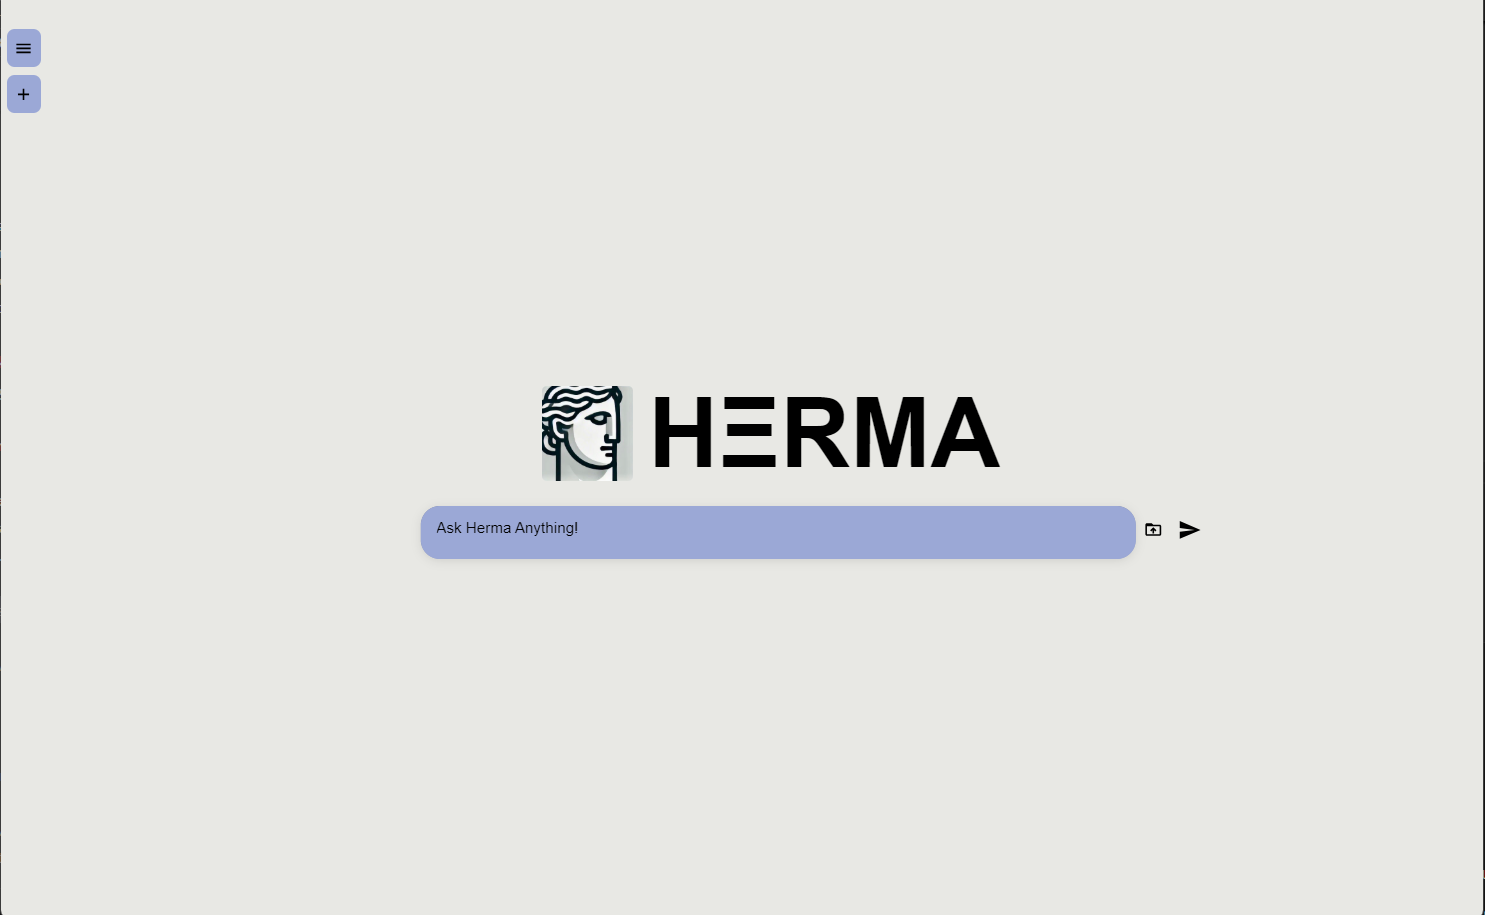
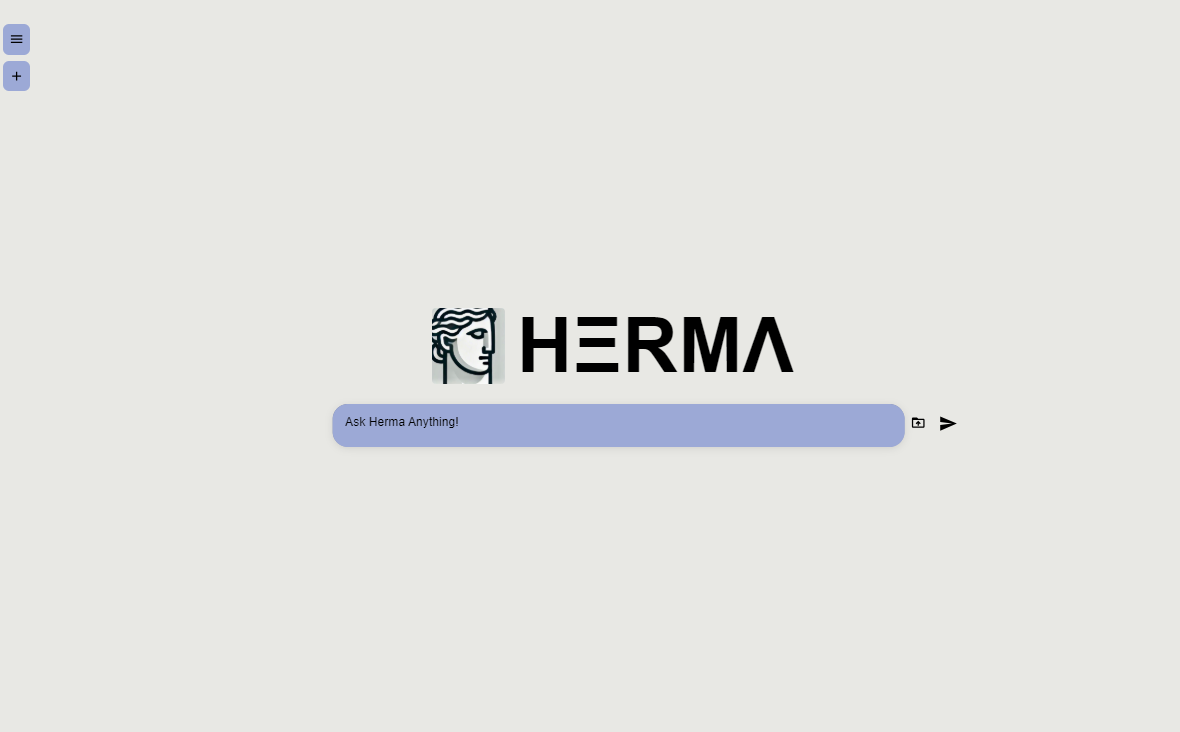
added tips section and made minor aesthetic changes

diff --git a/src/components/Hero.jsx b/src/components/Hero.jsx
@@ -8,10 +8,7 @@ import complexProblemImage from './complex-problem.png';
 
 const Hero = () => {
   const [requirementsOpen, setRequirementsOpen] = useState(false);
-
-  const toggleRequirements = () => {
-    setRequirementsOpen(!requirementsOpen);
-  };
+  const [tipsOpen, setTipsOpen] = useState(false);
 
   const scrollGallery = (direction) => {
     const track = document.getElementById('gallery-track');
@@ -92,12 +89,50 @@ const Hero = () => {
     // window.location.href = downloadUrls[platform];
   };
 
+  const toggleRequirements = () => {
+    setRequirementsOpen(!requirementsOpen);
+    
+    // Update spacer height when requirements are toggled
+    //updateSpacerHeight();
+  };
+  
+  const toggleTips = () => {
+    setTipsOpen(!tipsOpen);
+    
+    // Update spacer height when tips are toggled
+    //updateSpacerHeight();
+  };
+  
+  // Function to update the content spacer height
+  const updateSpacerHeight = () => {
+    const spacer = document.querySelector('.content-spacer');
+    const requirementsContent = document.querySelector('.requirements-content');
+    const tipsContent = document.querySelector('.tips-content');
+    
+    if (requirementsOpen || tipsOpen) {
+      spacer.style.display = 'block';
+      
+      // Determine the tallest content element
+      let height = 0;
+      if (requirementsOpen) {
+        height = Math.max(height, requirementsContent.scrollHeight + 40);
+      }
+      if (tipsOpen) {
+        height = Math.max(height, tipsContent.scrollHeight + 40);
+      }
+      
+      spacer.style.height = height + 'px';
+    } else {
+      spacer.style.display = 'none';
+    }
+  };
+
   return (
     <section className="hero">
       <div className="container hero-content">
-          <h1>The Future is Local</h1>
+          <h1>Privacy is Power</h1>
         <p>
-          Herma is your personal private AI assistant. Herma can analyze your documents, answer your questions, and solve your problems. All without leaving your device. 
+        A local alternative to cloud-based AI
         </p>
 
         <div className="cta-container" id="download">
@@ -116,9 +151,10 @@ const Hero = () => {
           </p>
         </div>
         
-        <div className={`system-requirements-container ${requirementsOpen ? 'requirements-open' : ''}`}>
+        <div className="dropdown-container">
+          <div className={`system-requirements-container ${requirementsOpen ? 'requirements-open' : ''}`}>
             <h3 className="requirements-title" onClick={toggleRequirements}>
-              System Suggestions <span className="requirements-hint">{requirementsOpen ? '▲' : '▼'}</span>
+              System Requirements <span className="requirements-hint">{requirementsOpen ? '▲' : '▼'}</span>
             </h3>
             <div className="requirements-content">
               <div className="requirements-grid">
@@ -143,8 +179,37 @@ const Hero = () => {
                 Herma uses Llama 3.2:1B technology to deliver AI capabilities directly on your device without sending your data to the cloud.
               </div>
             </div>
-        </div>
+          </div>
 
+          <div className={`tips-container ${tipsOpen ? 'tips-open' : ''}`}>
+            <h3 className="tips-title" onClick={toggleTips}>
+              Tips for Herma <span className="tips-hint">{tipsOpen ? '▲' : '▼'}</span>
+            </h3>
+            <div className="tips-content">
+              <div className="tips-grid">
+                <div className="tip-item">
+                  <h4>Be Specific</h4>
+                  <p>Clearly state your problem and provide necessary context for better responses.</p>
+                </div>
+                <div className="tip-item">
+                  <h4>Break Down Complex Tasks</h4>
+                  <p>Split complex requests into smaller, more manageable steps for better results.</p>
+                </div>
+                <div className="tip-item">
+                  <h4>Iterative Refinement</h4>
+                  <p>Follow up with clarifications to refine responses toward your needs.</p>
+                </div>
+                <div className="tip-item">
+                  <h4>Memory Overflow</h4>
+                  <p>Longer chats may decrease response accuracy.</p>
+                </div>
+              </div>
+              <div className="tips-note">
+                Herma's capabilities shine when your prompts are clear, specific, and provide the right context for your question.
+              </div>
+            </div>
+          </div>
+        </div>
         <div className="app-preview-container">
           <div className="app-gallery-wrapper">
             <div className="gallery-controls">

diff --git a/src/components/Hero.css b/src/components/Hero.css
@@ -101,14 +101,26 @@
 }
 
 /* Add these styles to your Hero.css file */
+.dropdown-container {
+  display: flex;
+  flex-direction: row;
+  justify-content: center;
+  align-items: flex-start;
+  gap: var(--margin-m);
+  margin-top: var(--margin-s);
+  width: 100%;
+}
 
-.system-requirements-container {
+.system-requirements-container,
+.tips-container {
   margin-top: var(--margin-l);
   text-align: center;
   position: relative;
+  width: 100%;
 }
 
-.requirements-title {
+.requirements-title,
+.tips-title {
   font-size: calc(var(--h4-size));
   color: var(--highlight-color);
   display: inline-block;
@@ -121,20 +133,23 @@
   z-index: 2;
 }
 
-.requirements-title:hover {
+.requirements-title:hover,
+.tips-title:hover {
   background-color: rgba(0, 0, 0, 0.05);
 }
 
-.requirements-hint {
+.requirements-hint,
+.tips-hint {
   margin-left: 5px;
   font-size: 0.7rem;
   transition: transform 0.3s ease;
 }
 
-.requirements-content {
+.requirements-content,
+.tips-content {
   max-height: 0;
   overflow: hidden;
-  transition: max-height 0.5s ease, opacity 0.3s ease, transform 0.3s ease;
+  transition: max-height 0.3s ease, opacity 0.15s ease, transform 0.15s ease;
   opacity: 0;
   transform: translateY(-10px);
   margin-top: 0;
@@ -153,32 +168,45 @@
   padding: var(--margin-m);
 }
 
-.requirements-grid {
+.tips-container.tips-open .tips-content {
+  max-height: 500px;
+  opacity: 1;
+  transform: translateY(0);
+  margin-top: var(--margin-s);
+  padding: var(--margin-m);
+}
+
+.requirements-grid,
+.tips-grid {
   display: grid;
   grid-template-columns: repeat(2, 1fr);
   gap: var(--margin-m);
 }
 
-.requirement-item {
+.requirement-item,
+.tip-item {
   padding: var(--margin-s);
   background-color: white;
   border-radius: var(--radius-md);
   box-shadow: var(--shadow-sm);
 }
 
-.requirement-item h4 {
-  font-size: calc(var(--h4-size) * 0.8);
+.requirement-item h4,
+.tip-item h4 {
+  font-size: calc(var(--h4-size) * 0.65);
   margin-bottom: 0.5rem;
   color: var(--highlight-color);
 }
 
-.requirement-item p {
-  font-size: 0.9rem;
+.requirement-item p,
+.tip-item p {
+  font-size: 0.75rem;
   margin: 0;
   line-height: 1.4;
 }
 
-.requirements-note {
+.requirements-note,
+.tips-note {
   font-size: 0.85rem;
   text-align: center;
   margin-top: var(--margin-m);
@@ -187,11 +215,11 @@
 }
 
 @media (max-width: 768px) {
-  .requirements-grid {
-      grid-template-columns: 1fr;
+  .requirements-grid,
+  .tips-grid {
+    grid-template-columns: 1fr;
   }
 }
-
 .app-preview-container {
   max-width: 90%;
   margin: var(--margin-xl) auto 0;

diff --git a/src/components/About.jsx b/src/components/About.jsx
@@ -12,8 +12,8 @@ const About = () => {
           <path d="M20 6h-8l-2-2H4c-1.1 0-1.99.9-1.99 2L2 18c0 1.1.9 2 2 2h16c1.1 0 2-.9 2-2V8c0-1.1-.9-2-2-2zm0 12H4V8h16v10z"/>
         </svg>
       ),
-      title: "Document Analysis",
-      description: "Upload PDFs, documents, spreadsheets, and more. Herma can analyze and answer questions about your files."
+      title: "Clear Analysis",
+      description: "Retrieval augmented generated context from documents, chat history, and more allows Herma to provide accurate and efficient responses."
     },
     {
       id: 2,
@@ -23,7 +23,7 @@ const About = () => {
         </svg>
       ),
       title: "Smart Conversations",
-      description: "Herma remembers context and can have natural, helpful conversations about complex topics."
+      description: "Herma combines local LLMs with powerful memory to have helpful conversations about complex topics."
     },
     {
       id: 3,
@@ -33,17 +33,19 @@ const About = () => {
         </svg>
       ),
       title: "Private & Secure",
-      description: "Your conversations and documents stay on your device. Your privacy is our priority."
+      description: "Your conversations and documents stay on your device. No information leaves your control. Your privacy is our priority."
     }
   ];
 
   return (
     <section className="about" id="about">
       <div className="container">
-        <h2>About HΞRMA</h2>
+        <h2>About HΞRMΛ</h2>
         <p className="about-description">
           Herma is an intelligent assistant that helps you find answers, analyze documents, and get things done privately. 
-          With our powerful AI technology, Herma can run entirely on your computer to understand your questions and provide accurate, helpful responses.
+          Currently, you have two choices when using private data with LLMs: 
+          either expose private information to the cloud or use custom locally run LLMs that are expensive, complex, and lack the capabilities of cloud-based models. 
+          By creating a federated data ecosystem for local AI, we aim to lower costs, expand accessibility, and bring the capabilities of cloud-based AI to a local system.
         </p>
         
         <div className="features" id="features">

diff --git a/src/components/About.css b/src/components/About.css
@@ -4,11 +4,12 @@
     background-color: var(--secondary-bg);
     border-top: 2px solid var(--highlight-color);
     display: flex;
+    padding-top: 5rem;
   }
   
   .about h2 {
     font-size: var(--h2-size);
-    margin-bottom: var(--margin-l);
+    margin-bottom: 5rem;
     color: var(--highlight-color);
     text-align: center;
     font-family: Arial, Helvetica, sans-serif;
@@ -17,9 +18,10 @@
   .about-description {
     text-align: center;
     max-width: 800px;
+    font-size: 18px;
     margin: 0 auto var(--margin-xl);
   }
-  
+
   .features {
     display: flex;
     gap: var(--margin-l);

diff --git a/src/pages/Attributions.jsx b/src/pages/Attributions.jsx
@@ -399,7 +399,7 @@ const Attributions = () => {
           <div className="policy-contact">
             <p>
               If you have any questions about third-party software used in this application or our compliance with open source licenses, please contact us at: 
-              <a href="mailto:herma@email.com"> herma@email.com</a>
+              <a href="mailto:herma@email.com"> hermalocal@gmail.com</a>
             </p>
           </div>
           

diff --git a/src/pages/PrivacyPolicy.jsx b/src/pages/PrivacyPolicy.jsx
@@ -162,7 +162,7 @@ const PrivacyPolicy = () => {
               For general inquiries, complaints, questions, or claims concerning the Application, please contact:
             </p>
             <p>
-              <a href="mailto:herma@email.com">herma@email.com</a>
+              <a href="mailto:herma@email.com">hermalocal@gmail.com</a>
             </p>
           </div>
           

diff --git a/src/pages/TermsOfService.jsx b/src/pages/TermsOfService.jsx
@@ -135,7 +135,7 @@ const TermsOfService = () => {
           <div className="policy-contact">
             <p>
               If you have any questions about these Terms, please contact us at: 
-              <a href="mailto:herma@email.com"> herma@email.com</a>
+              <a href="mailto:herma@email.com"> hermalocal@gmail.com</a>
             </p>
           </div>
           

diff --git a/src/components/Header.jsx b/src/components/Header.jsx
@@ -26,7 +26,7 @@ const Header = () => {
         <div className="logo-container">
           <Link to="/" className='logo-container'>
             <img src={HermaLogo} alt="Herma Logo" className="logo"/>
-            <div className="logo-text">HΞRMA</div>
+            <div className="logo-text">HΞRMΛ</div>
           </Link>
         </div>
         

diff --git a/src/components/Footer.jsx b/src/components/Footer.jsx
@@ -47,7 +47,7 @@ const Footer = () => {
           </a>
         </div>
         <div className="copyright">
-        <span className='email'>Contact Us: herma@gmail.com</span>
+        <span className='email'>Contact Us: hermalocal@gmail.com</span>
           &copy; {currentYear} Herma. All rights reserved.
         </div>
       </div>
